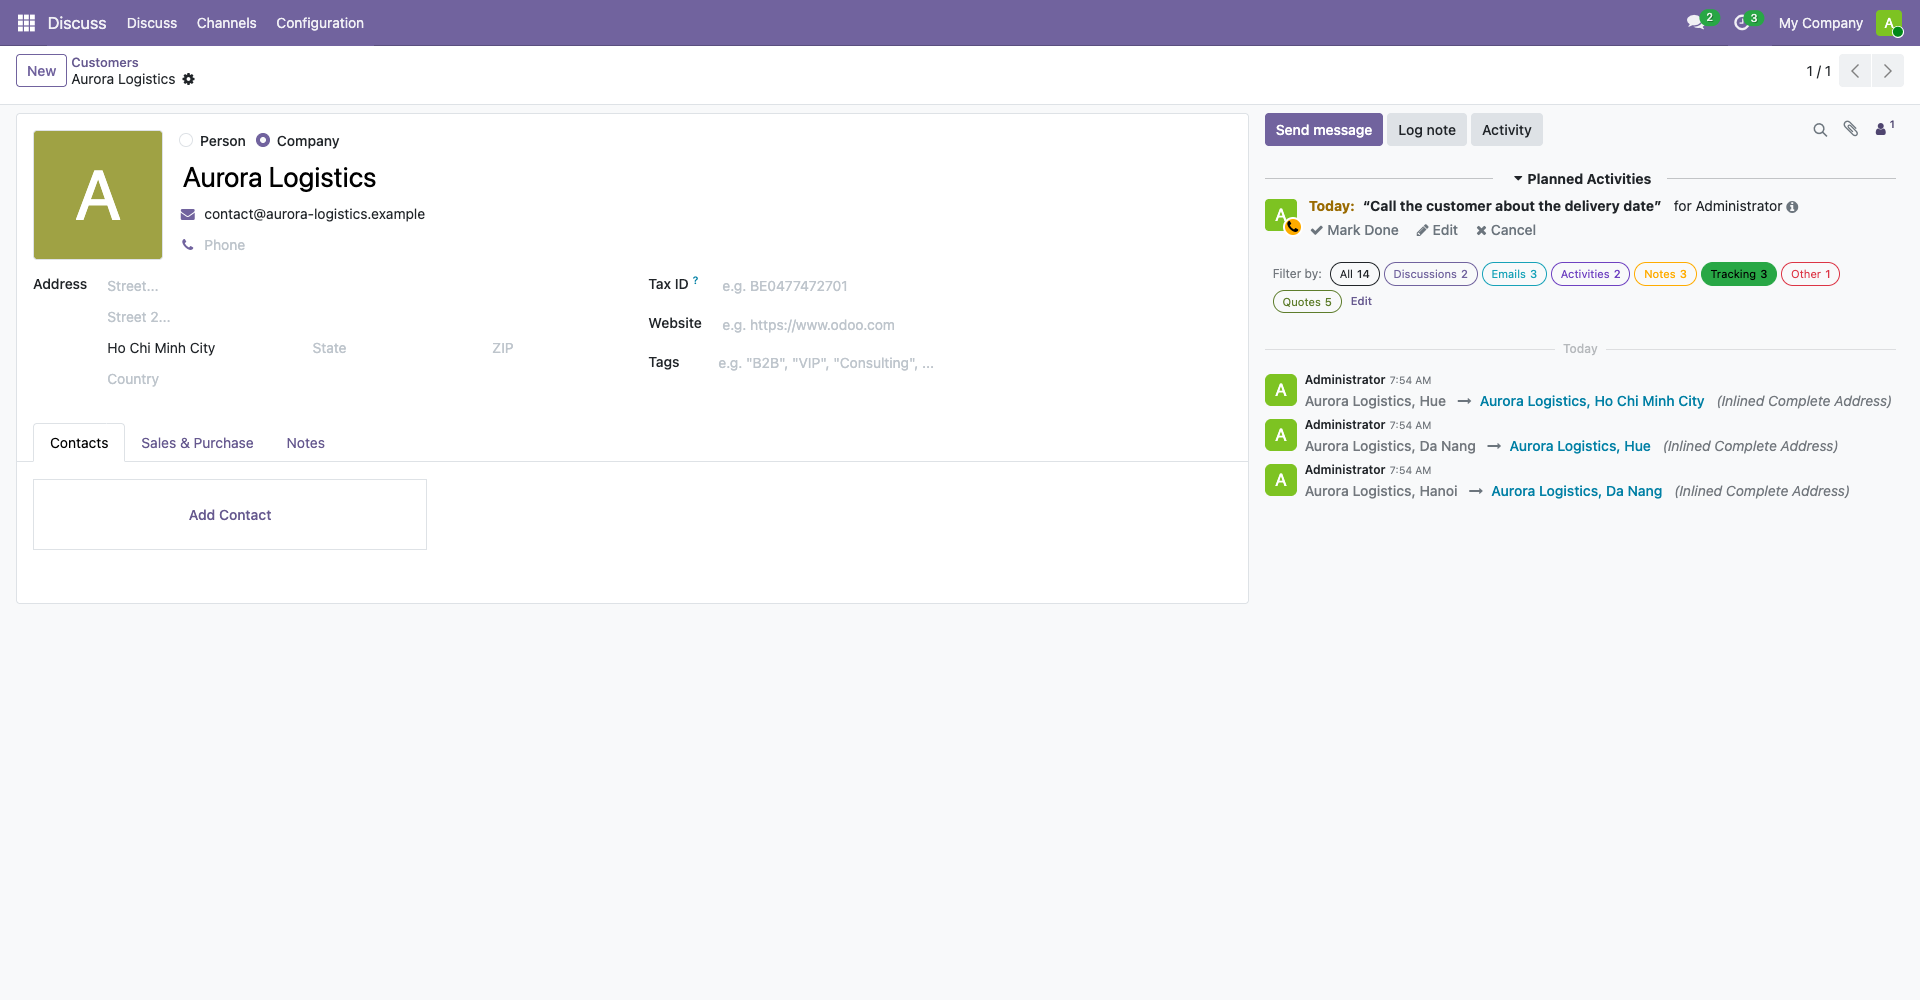
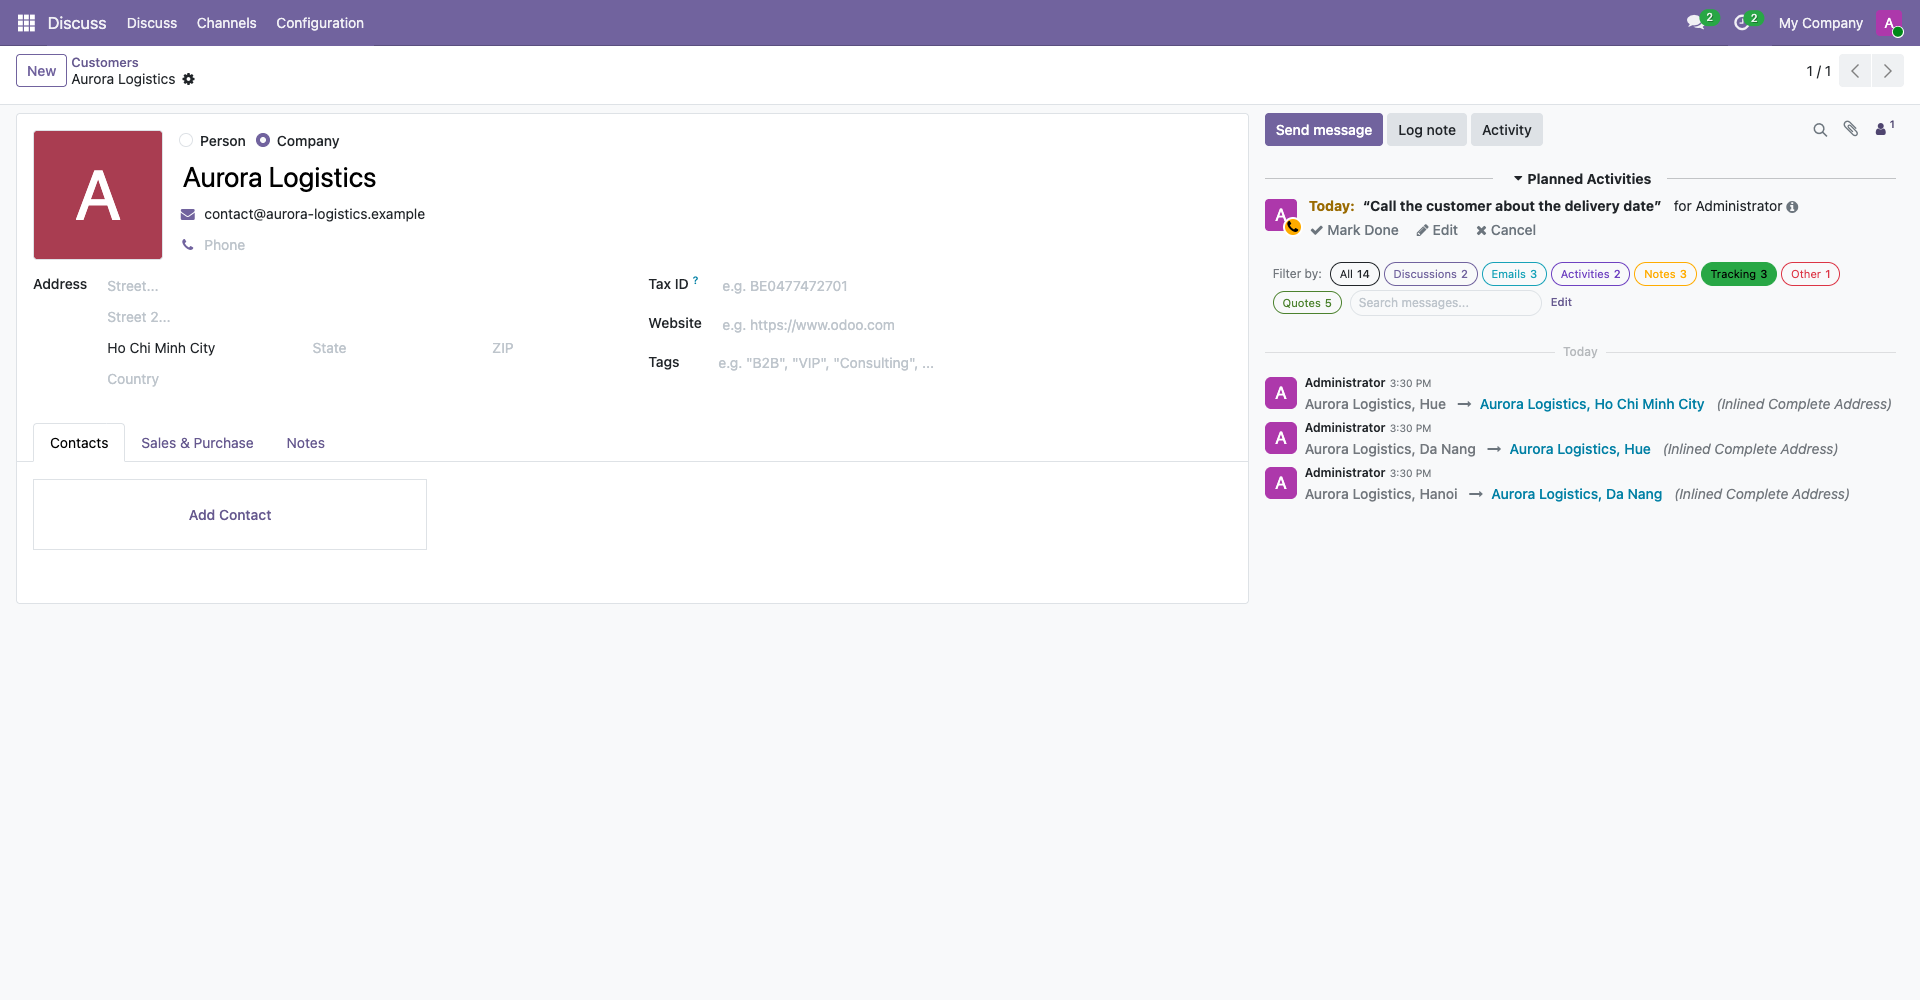
dwo_chatter_filter: search box, new screenshots and listing text

diff --git a/dwo_chatter_filter/static/description/index.html b/dwo_chatter_filter/static/description/index.html
@@ -8,7 +8,7 @@
     </div>
 
     <div class="my-5">
-        <p class="mb-4" style="font-size: 17px;">A long-lived record has hundreds of messages: talks, emails, notes, changed fields and automatic notices, all mixed. The search box only finds words. <strong>Chatter Quick Filter</strong> shows the messages you care about with one click, with the number of messages on every chip. And the chips are yours: want a <em>Quotes</em> chip, or <em>Messages from the customer</em>? The administrator makes it in a minute, and every chatter shows it.</p>
+        <p class="mb-4" style="font-size: 17px;">A long-lived record has hundreds of messages: talks, emails, notes, changed fields and automatic notices, all mixed. <strong>Chatter Quick Filter</strong> shows the messages you care about with one click, with the number of messages on every chip, and a search box right beside the chips finds the words you remember. And the chips are yours: want a <em>Quotes</em> chip, or <em>Messages from the customer</em>? The administrator makes it in a minute, and every chatter shows it.</p>
         <div class="text-center mb-4">
             <img src="flow.png" alt="Open a record, see your chips, click one, only those messages are shown" class="img-fluid rounded shadow-sm"/>
         </div>
@@ -59,8 +59,8 @@
         <div class="col-md-4 mb-4">
             <div class="card h-100" style="border-top: 4px solid #875A7B;">
                 <div class="card-body">
-                    <h4 class="font-weight-bold mt-0 mb-3" style="font-size: 18px; color: #4A2F45;">Done by the server</h4>
-                    <p class="mb-0" style="font-size: 14px;">Load more works on the filtered list, not only on what is loaded.</p>
+                    <h4 class="font-weight-bold mt-0 mb-3" style="font-size: 18px; color: #4A2F45;">Search box</h4>
+                    <p class="mb-0" style="font-size: 14px;">Type a word beside the chips: contents, subject, author or sender, together with the chip you chose.</p>
                 </div>
             </div>
         </div>
@@ -102,6 +102,12 @@
         <img src="screenshot_6.png" alt="The chatter with a new Quotes chip filtering the messages that mention a quotation" class="img-fluid rounded shadow"/>
     </div>
 
+    <h2 class="font-weight-bold mt-5 mb-3" style="font-size: 30px; color: #4A2F45;">Search beside the chips</h2>
+    <p class="mb-4" style="font-size: 16px;">Type a word and wait a moment: only the messages with it in their contents, subject, author or sender stay, and every chip count follows. <strong>X</strong> or <strong>Esc</strong> clears the box.</p>
+    <div class="text-center mb-4">
+        <img src="screenshot_7.png" alt="The chatter with the word quotation typed in the search box next to the chips, showing only the messages that contain it" class="img-fluid rounded shadow"/>
+    </div>
+
     <h2 class="font-weight-bold mt-5 mb-3" style="font-size: 30px; color: #4A2F45;">Requirements &amp; Installation</h2>
     <p class="mb-3" style="font-size: 16px;">Needs only the standard <code>mail</code> module. No external library.</p>
     <p class="mb-3 p-3 border rounded" style="font-size: 15px; border-left: 4px solid #875A7B;">For internal users. Only administrators see the Edit link. The choice of chip is not kept: the next time you open a record, all messages are shown.</p>
@@ -127,6 +133,7 @@
         <div class="tab-pane fade" id="dcf_use" role="tabpanel">
             <h4 class="font-weight-bold mt-0 mb-3" style="font-size: 18px; color: #875A7B;">Filter the messages</h4>
             <p class="mb-2" style="font-size: 14px;">Under <strong>Filter by:</strong>, click a chip to see its messages only. Click <strong>All</strong> to see everything again.</p>
+            <p class="mb-2" style="font-size: 14px;">Type in the box beside the chips to search the messages: contents, subject, author and sender, any case. It goes with the chip you chose, and the counts follow. <strong>X</strong> or <strong>Esc</strong> clears it.</p>
             <h4 class="font-weight-bold mt-0 mb-3" style="font-size: 18px; color: #875A7B;">Edit the chips (administrators)</h4>
             <p class="mb-2" style="font-size: 14px;">Click <strong>Edit</strong> after the last chip. The list shows the chips: drag a line by its handle to change the order, use the toggle to archive or bring back a chip. <strong>New</strong> makes a chip with its own colour.</p>
             <p class="mb-2" style="font-size: 14px;">Open a chip to change its name, its colour and its filter. The filter is the usual rule editor on the messages: contents, type, author, date, and more. Save, reload the page, and every chatter shows the change.</p>
@@ -137,12 +144,21 @@
         <div class="tab-pane fade" id="dcf_limits" role="tabpanel">
             <h4 class="font-weight-bold mt-0 mb-3" style="font-size: 18px; color: #875A7B;">Good to know</h4>
             <p class="mb-2" style="font-size: 14px;">It works in the chatter of a record, not in Discuss or the inbox.</p>
-            <p class="mb-2" style="font-size: 14px;">One kind at a time. While you search messages with the magnifier, the badges are hidden.</p>
+            <p class="mb-2" style="font-size: 14px;">One kind of chip at a time. The search matches the stored text of the message, which is HTML, so a word that is part of a tag name can match. Odoo's own magnifier of the chatter is separate: while you use it, the badges are hidden.</p>
         </div>
     </div>
 
     <h2 class="font-weight-bold mt-5 mb-3" style="font-size: 30px; color: #4A2F45;">Changelog</h2>
     <p class="mb-3" style="font-size: 16px;">Module releases, newest first.</p>
+    <div class="card mb-3"><div class="card-body">
+        <div class="row">
+            <div class="col-md-3 mb-2">
+                <h4 class="font-weight-bold mt-0 mb-1" style="font-size: 18px; color: #875A7B;">2.0</h4>
+                <p class="text-muted mb-0" style="font-size: 13px;">2026-11-14</p>
+            </div>
+            <div class="col-md-9"><p class="mb-0" style="font-size: 14px;">Search box beside the chips: contents, subject, author and sender, together with the chosen chip.</p></div>
+        </div>
+    </div></div>
     <div class="card mb-3"><div class="card-body">
         <div class="row">
             <div class="col-md-3 mb-2">
@@ -166,6 +182,10 @@
     <div class="card mb-3"><div class="card-body">
         <h4 class="font-weight-bold mt-0 mb-2" style="font-size: 16px; color: #4A2F45;">Who can edit the chips?</h4>
         <p class="mb-0" style="font-size: 14px;">Administrators (Settings access). Everyone else sees the chips and uses them, without the Edit link.</p>
+    </div></div>
+    <div class="card mb-3"><div class="card-body">
+        <h4 class="font-weight-bold mt-0 mb-2" style="font-size: 16px; color: #4A2F45;">What does the search box look into?</h4>
+        <p class="mb-0" style="font-size: 14px;">The contents, the subject, the name of the author and the sender email of the messages, in any case. It waits for a short pause in your typing, works together with the chip you chose, and the chip counts follow the text.</p>
     </div></div>
     <div class="card mb-3"><div class="card-body">
         <h4 class="font-weight-bold mt-0 mb-2" style="font-size: 16px; color: #4A2F45;">What can a chip filter on?</h4>

diff --git a/dwo_chatter_filter/static/src/models/chatter/chatter.js b/dwo_chatter_filter/static/src/models/chatter/chatter.js
@@ -9,6 +9,8 @@ const NAME = 'dwo_chatter_filter/static/src/models/chatter/chatter.js';
 registerFieldPatchModel('mail.chatter', NAME, {
     /** The id of the chip chosen (the messages it shows are the only ones loaded), false for all. */
     dwoFilter: attr({ default: false }),
+    /** The text searched in all the messages of the record ('' for none). */
+    dwoSearch: attr({ default: '' }),
 });
 
 registerInstancePatchModel('mail.chatter', NAME, {
@@ -25,9 +27,37 @@ registerInstancePatchModel('mail.chatter', NAME, {
             return;
         }
         this.update({ dwoFilter: chipId });
-        this.threadViewer.update({
-            stringifiedDomain: chipId ? JSON.stringify([['dwo_filter_id', '=', chipId]]) : '[]',
-        });
+        this._dwoApplyDomain();
+    },
+
+    /**
+     * Search a text in all the messages of the record (together with the chip chosen). The server does the
+     * search, so it works on the messages that are not loaded too.
+     *
+     * @param {string} text
+     */
+    dwoSetSearch(text) {
+        text = (text || '').trim();
+        if (this.dwoSearch === text || !this.threadViewer) {
+            return;
+        }
+        this.update({ dwoSearch: text });
+        this._dwoApplyDomain();
+    },
+
+    /**
+     * The chip and the text travel in the domain of the thread viewer as the leaves dwo_filter_id and
+     * dwo_search, which the server turns into conditions (see message_fetch).
+     */
+    _dwoApplyDomain() {
+        const domain = [];
+        if (this.dwoFilter) {
+            domain.push(['dwo_filter_id', '=', this.dwoFilter]);
+        }
+        if (this.dwoSearch) {
+            domain.push(['dwo_search', '=', this.dwoSearch]);
+        }
+        this.threadViewer.update({ stringifiedDomain: JSON.stringify(domain) });
     },
 
     /**
@@ -35,7 +65,7 @@ registerInstancePatchModel('mail.chatter', NAME, {
      */
     dwoReload() {
         const cache = this.threadViewer && this.threadViewer.threadCache;
-        if (!this.dwoFilter || !cache) {
+        if (!(this.dwoFilter || this.dwoSearch) || !cache) {
             return;
         }
         cache.update({
@@ -51,8 +81,11 @@ registerInstancePatchModel('mail.chatter', NAME, {
      * Back to all the messages, for the next time the record is opened.
      */
     dwoReset() {
-        if (this.dwoFilter) {
-            this.dwoSetFilter(false);
+        if (this.dwoFilter || this.dwoSearch) {
+            this.update({ dwoFilter: false, dwoSearch: '' });
+            if (this.threadViewer) {
+                this._dwoApplyDomain();
+            }
         }
     },
 });

diff --git a/dwo_chatter_filter/static/src/components/dwo_message_filter/dwo_message_filter.js b/dwo_chatter_filter/static/src/components/dwo_message_filter/dwo_message_filter.js
@@ -26,6 +26,11 @@ function textColorOn(hex) {
     return 1.05 / (L + 0.05) >= (L + 0.05) / 0.05 ? '#ffffff' : '#000000';
 }
 
+/** @returns {string} the text searched in the chatter ('' for none) */
+function chatterSearch(chatter) {
+    return (chatter && chatter.dwoSearch) || '';
+}
+
 /**
  * The chips at the top of the chatter: All, then the chips the administrator made (see the model
  * dwo.chatter.filter), each with its number of messages. One at a time; a click shows only the messages of
@@ -49,8 +54,9 @@ class DwoMessageFilter extends Component {
             };
         });
         this.isAdmin = Boolean(session.is_admin);
-        this.state = useState({ data: null });
+        this.state = useState({ data: null, search: '' });
         this.timer = null;
+        this.searchTimer = null;
         this.watched = null;
     }
 
@@ -96,6 +102,7 @@ class DwoMessageFilter extends Component {
         this.unmounted = true;
         this.env.bus.off('ACTION_MANAGER:UI-UPDATED', this);
         clearTimeout(this.timer);
+        clearTimeout(this.searchTimer);
         // leaving this record: back to all the messages
         const chatter = this.chatter;
         if (chatter) {
@@ -143,7 +150,7 @@ class DwoMessageFilter extends Component {
             const data = await this.env.services.rpc({
                 model: 'mail.message',
                 method: 'dwo_filter_chips',
-                args: [thread.model, thread.id],
+                args: [thread.model, thread.id, (chatterSearch(this.chatter))],
             });
             if (this.unmounted) {
                 return;
@@ -182,6 +189,35 @@ class DwoMessageFilter extends Component {
         if (chatter) {
             chatter.dwoSetFilter(chip === 'all' ? false : parseInt(chip, 10));
         }
+    }
+
+    /** The text is sent to the server 300 ms after the last key. */
+    onInputSearch(ev) {
+        this.state.search = ev.target.value;
+        clearTimeout(this.searchTimer);
+        this.searchTimer = setTimeout(() => this._applySearch(), 300);
+    }
+
+    onKeydownSearch(ev) {
+        if (ev.key === 'Escape') {
+            ev.stopPropagation();
+            this.onClickClearSearch();
+        }
+    }
+
+    onClickClearSearch() {
+        this.state.search = '';
+        clearTimeout(this.searchTimer);
+        this._applySearch();
+    }
+
+    async _applySearch() {
+        const chatter = this.chatter;
+        if (this.unmounted || !chatter) {
+            return;
+        }
+        chatter.dwoSetSearch(this.state.search);
+        await this._loadChips();
     }
 
     onClickEdit() {

diff --git a/dwo_chatter_filter/static/src/models/thread_cache/thread_cache.js b/dwo_chatter_filter/static/src/models/thread_cache/thread_cache.js
@@ -5,7 +5,7 @@ const { registerInstancePatchModel } = require('mail/static/src/model/model_core
 
 /**
  * @param {mail.thread_cache} cache
- * @returns {boolean} whether the cache was made by a chip of the filter (its domain is the leaf dwo_filter_id)
+ * @returns {boolean} whether the cache was made by a chip of the filter (its domain has only the leaves dwo_filter_id and dwo_search)
  */
 function isChipCache(cache) {
     let domain;
@@ -14,7 +14,7 @@ function isChipCache(cache) {
     } catch (_e) {
         return false;
     }
-    return domain.length === 1 && domain[0][0] === 'dwo_filter_id';
+    return domain.length > 0 && domain.every((leaf) => leaf[0] === 'dwo_filter_id' || leaf[0] === 'dwo_search');
 }
 
 registerInstancePatchModel('mail.thread_cache', 'dwo_chatter_filter/static/src/models/thread_cache/thread_cache.js', {

diff --git a/dwo_chatter_filter/static/src/filter/dwo_message_filter.scss b/dwo_chatter_filter/static/src/filter/dwo_message_filter.scss
@@ -18,4 +18,8 @@
         &.o-dwo-filterEmpty { opacity: .45; cursor: default; }
     }
     .o-dwo-filterEdit { font-size: .7rem; }
+    .o-dwo-search {
+        .o-dwo-searchInput { font-size: .75rem; height: 1.8rem; width: 12rem; padding-right: 1.4rem; }
+        .o-dwo-searchClear { position: absolute; right: .4rem; line-height: 1; text-decoration: none; }
+    }
 }

diff --git a/dwo_chatter_filter/models/mail_message.py b/dwo_chatter_filter/models/mail_message.py
@@ -99,6 +99,18 @@ class MailMessage(models.Model):
         raise UserError(_("Unknown kind of message: %s") % category)
 
     @api.model
+    def _dwo_search_domain(self, text):
+        """The messages that contain the text (any case) in the body, the subject, the name or the email of
+        the author. No text: no condition."""
+        text = (text or "").strip()
+        if not text:
+            return []
+        return expression.OR([
+            [("body", "ilike", text)], [("subject", "ilike", text)],
+            [("author_id.name", "ilike", text)], [("email_from", "ilike", text)],
+        ])
+
+    @api.model
     def message_fetch(self, domain, limit=20, moderated_channel_ids=None):
         """The chatter asks for the messages of one chip: the filter is applied by the server, so the
         pagination (Load more) works on the filtered list and not on what was already loaded. A chip that
@@ -108,9 +120,12 @@ class MailMessage(models.Model):
         the domain, as a leaf ("dwo_filter_id", "=", id) that is turned into the chip's domain here."""
         kept = []
         chip_id = None
+        search_text = None
         for leaf in list(domain or []):
             if isinstance(leaf, (list, tuple)) and len(leaf) == 3 and leaf[0] == "dwo_filter_id":
                 chip_id = leaf[2]
+            elif isinstance(leaf, (list, tuple)) and len(leaf) == 3 and leaf[0] == "dwo_search":
+                search_text = leaf[2]
             else:
                 kept.append(leaf)
         if chip_id:
@@ -123,10 +138,12 @@ class MailMessage(models.Model):
                     kept = expression.AND([kept, chip_domain])
                 except Exception:
                     _logger.warning("Chatter Quick Filter: the filter of %r is not valid", chip.name, exc_info=True)
+        if search_text and isinstance(search_text, str):
+            kept = expression.AND([kept, self._dwo_search_domain(search_text)])
         return super().message_fetch(kept, limit=limit, moderated_channel_ids=moderated_channel_ids)
 
     @api.model
-    def dwo_filter_chips(self, res_model, res_id):
+    def dwo_filter_chips(self, res_model, res_id, search=None):
         """What the chatter shows above the messages of a record: the number of messages in all, and the
         chips (in their order) with the number of messages each one shows. A chip whose filter does not work
         (a field of a module that was removed) has no number; the others are not affected."""
@@ -137,6 +154,7 @@ class MailMessage(models.Model):
         record.check_access_rights("read")
         record.check_access_rule("read")
         base = [("model", "=", res_model), ("res_id", "=", res_id), ("message_type", "!=", "user_notification")]
+        base = expression.AND([base, self._dwo_search_domain(search if isinstance(search, str) else None)])
         chips = []
         for chip in self.env["dwo.chatter.filter"].search([], limit=MAX_CHIPS):
             try:

diff --git a/dwo_chatter_filter/tests/test_filter.py b/dwo_chatter_filter/tests/test_filter.py
@@ -145,3 +145,37 @@ class TestMessageFilter(MailCommon):
             "groups_id": [(6, 0, [self.env.ref("base.group_portal").id])]})
         with self.assertRaises(AccessError):
             self.env["mail.message"].with_user(portal).dwo_filter_chips("res.partner", self.record.id)
+
+    def test_search_in_body_subject_author_and_email(self):
+        Message = self.env["mail.message"].with_user(self.user_employee)
+        author = self.env["res.partner"].create({"name": "Zorbaxia Quux"})
+        self.note.write({"body": "<p>The Needle is here</p>"})
+        self.discussion_1.write({"subject": "Haystack topic"})
+        self.discussion_2.write({"author_id": author.id})
+        self.email_in.write({"email_from": "someone@sphinx-mail.test"})
+
+        def found(text, chip=None):
+            # Odoo 14: the search text travels in the domain, as a leaf the server turns into the conditions
+            domain = self._thread_domain + [("dwo_search", "=", text)]
+            if chip:
+                domain += [("dwo_filter_id", "=", chip)]
+            return set(m["id"] for m in Message.message_fetch(domain))
+
+        self.assertEqual(found("needle"), {self.note.id})
+        self.assertEqual(found("HAYSTACK"), {self.discussion_1.id})
+        self.assertEqual(found("zorbaxia"), {self.discussion_2.id})
+        self.assertEqual(found("sphinx-mail"), {self.email_in.id})
+        # AND with the chip chosen
+        self.assertEqual(found("needle", self._chip("note").id), {self.note.id})
+        self.assertEqual(found("needle", self._chip("email").id), set())
+        # blank search: nothing is filtered
+        self.assertEqual(len(found("   ")), 9)
+
+    def test_counts_follow_the_search(self):
+        self.note.write({"body": "<p>The Needle is here</p>"})
+        result = self.env["mail.message"].with_user(self.user_employee).dwo_filter_chips(
+            "res.partner", self.record.id, "needle")
+        self.assertEqual(result["all"], 1)
+        counts = {chip["name"]: chip["count"] for chip in result["chips"]}
+        self.assertEqual(counts["Notes"], 1)
+        self.assertEqual(sum(counts.values()), 1)

diff --git a/dwo_chatter_filter/docs/CHANGELOG.md b/dwo_chatter_filter/docs/CHANGELOG.md
@@ -1,0 +1,8 @@
+# Changelog
+
+## 2026-11-14 - search box (14.0.2.0.0, no version bump)
+- Search box on the chip row (always visible, placeholder "Search messages..."): searches `body`, `subject`, author name and `email_from`, case-insensitive, 300 ms after the last key, AND with the chosen chip. The x button and Esc clear it; leaving the record resets it.
+- Server: like the chip, the text travels inside the domain of `mail.message.message_fetch` as the leaf `("dwo_search", "=", text)`; `dwo_filter_chips(res_model, res_id, search=None)` makes the chip counts follow the text; helper `_dwo_search_domain(text)`. No new field/model/migration.
+- JS: `chatter.dwoSearch`, `chatter.dwoSetSearch(text)`; Odoo's own search button is left as it is.
+- Tests: `test_search_in_body_subject_author_and_email`, `test_counts_follow_the_search` (green on Odoo 14). No new tour: the tours of this version are skipped here (no browser), so the JS is not run by any test.
+- Trade-off: `body` is HTML, so the match is on the stored HTML (a word inside a tag name can match).
